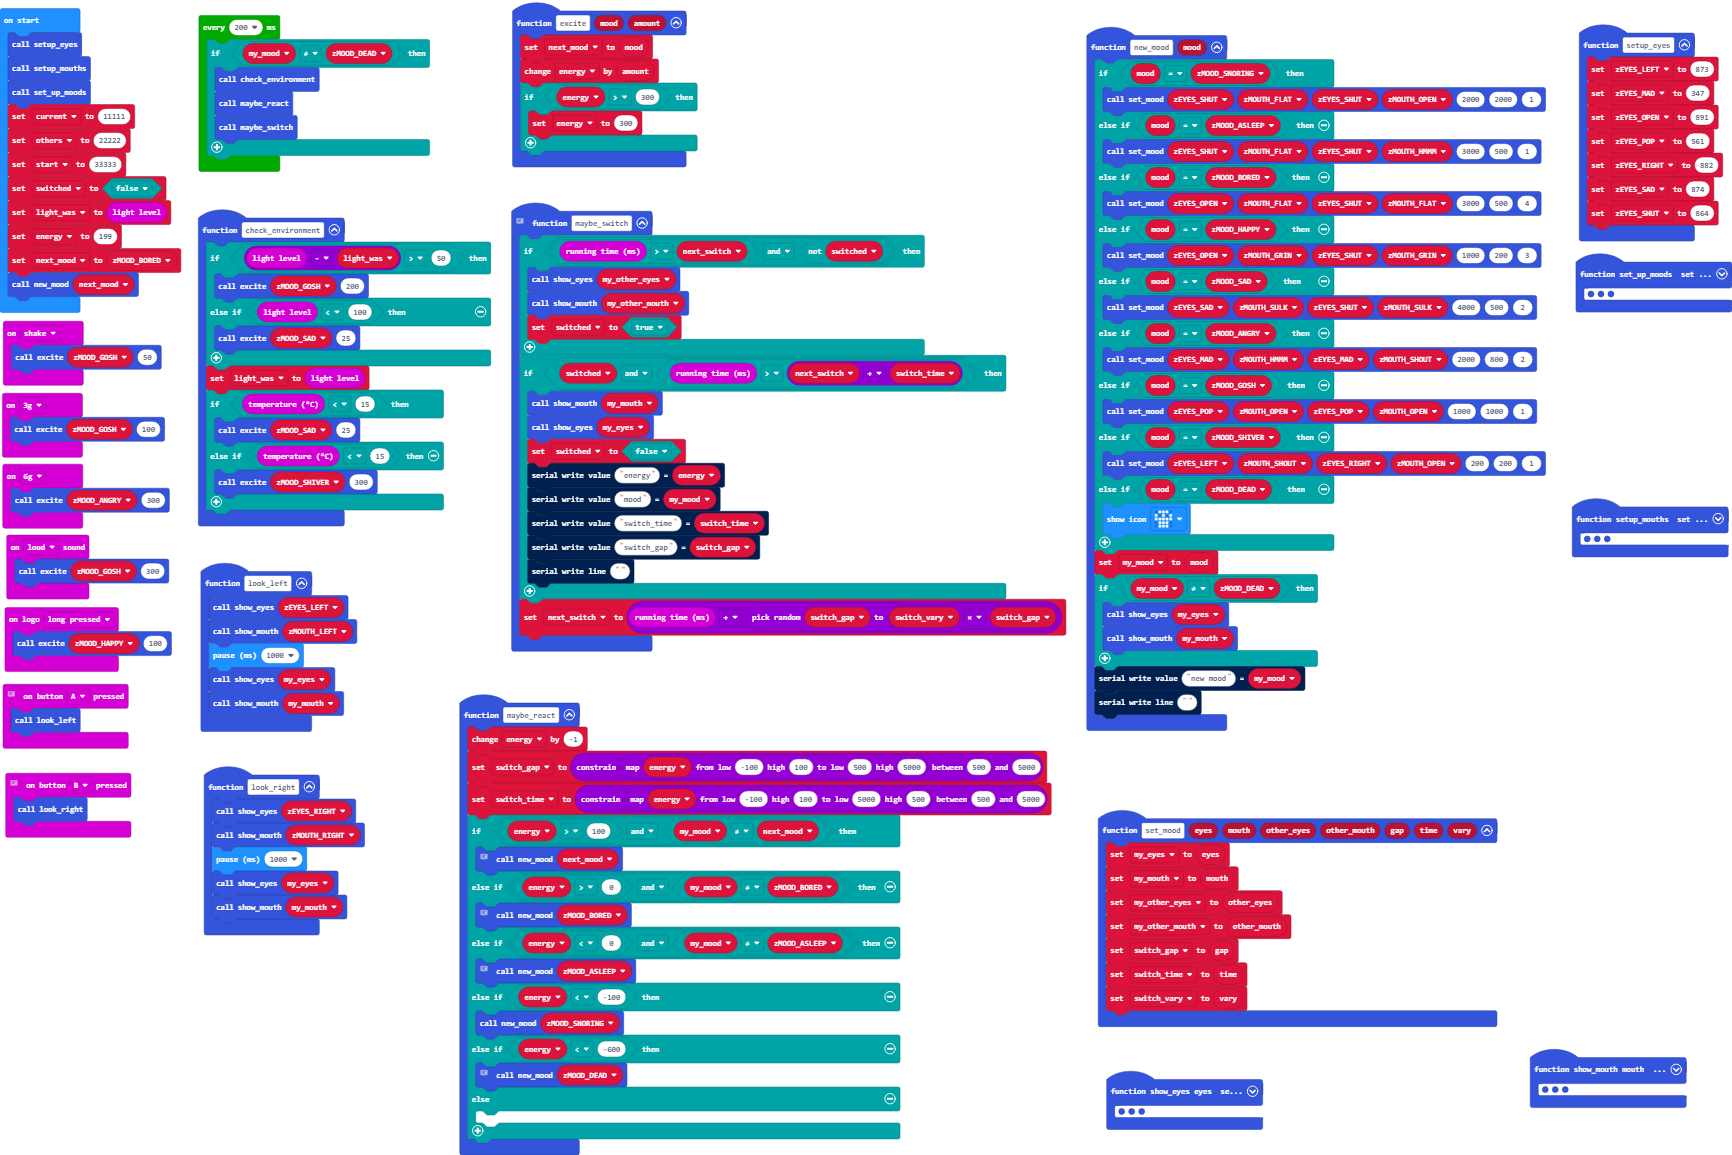
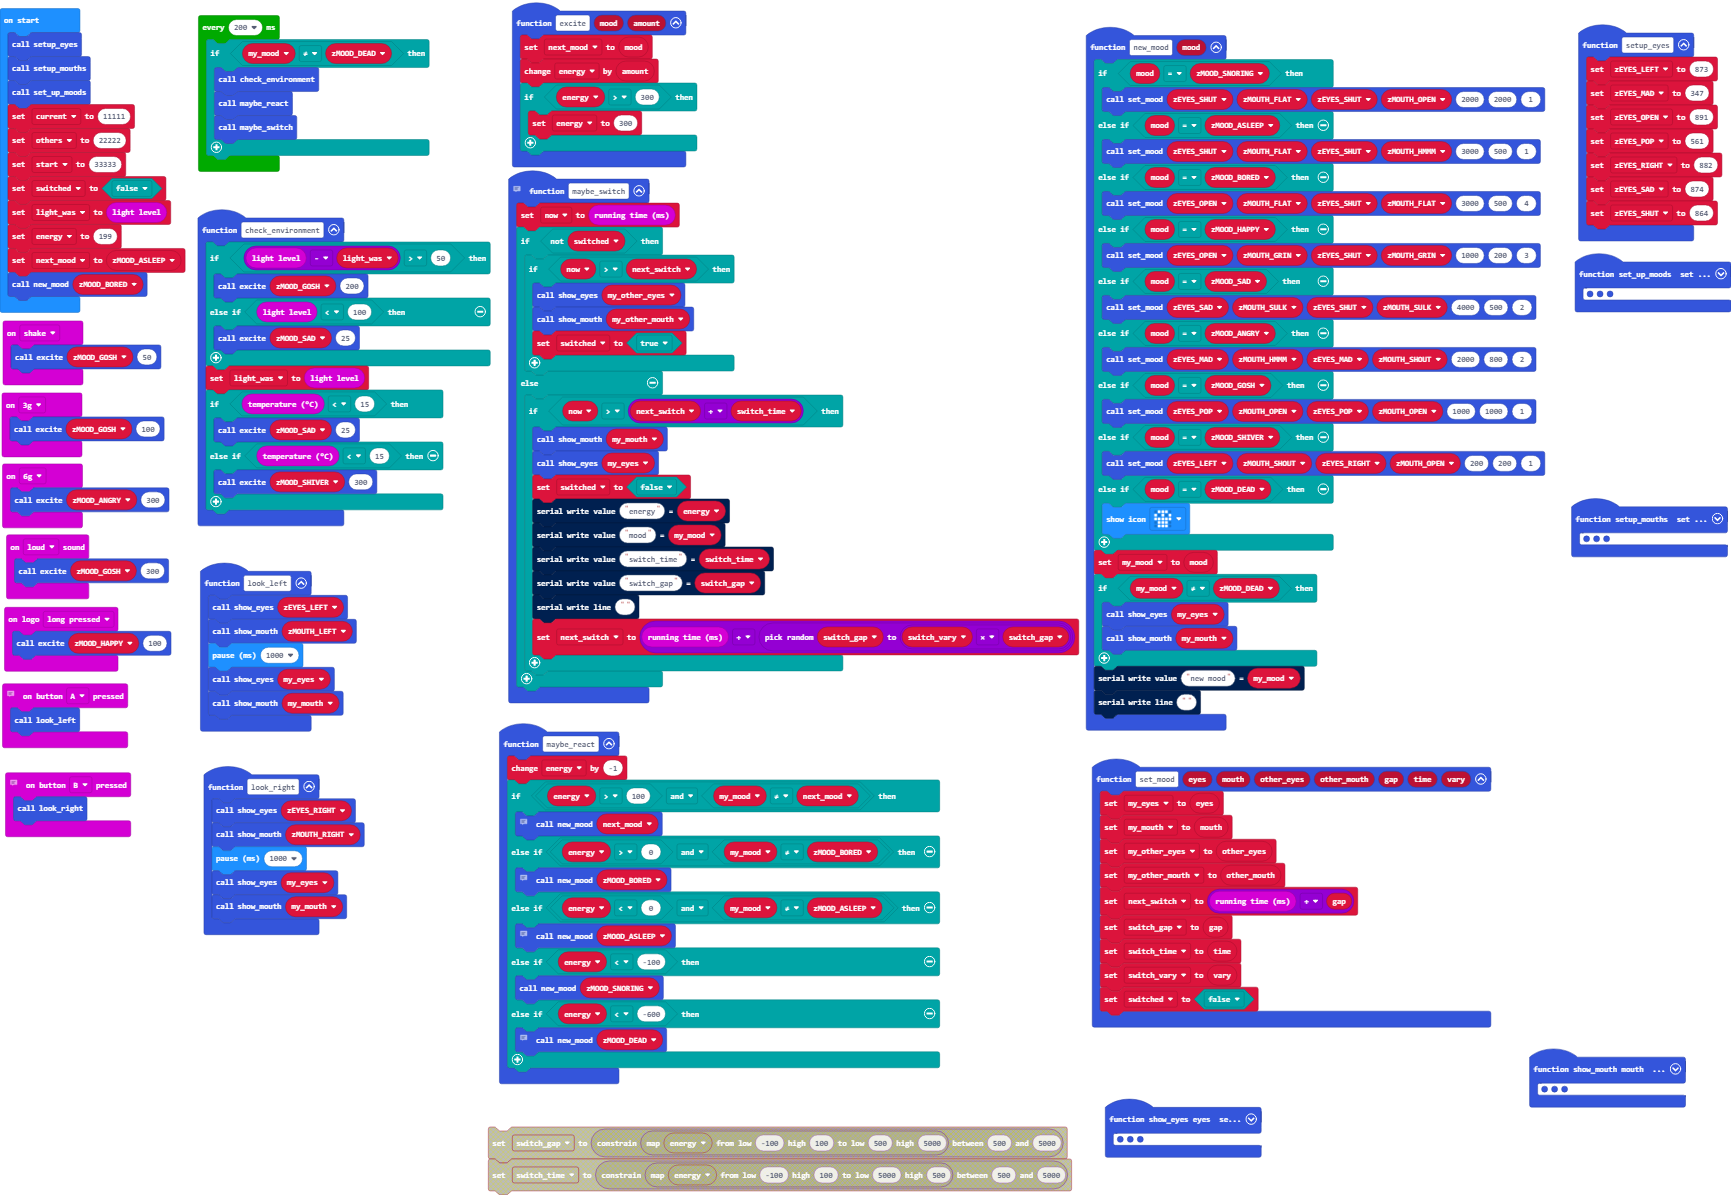
still struggling with flashing eyes!

diff --git a/main.ts b/main.ts
@@ -72,22 +72,26 @@ input.onGesture(Gesture.SixG, function () {
 // These are controlled by two time-periods: switch_gap sets how often, and switch_time says how long to show the alternate face.
 // So if it's time to switch, this function changes faces
 function maybe_switch () {
-    if (input.runningTime() > next_switch && !(switched)) {
-        show_eyes(my_other_eyes)
-        show_mouth(my_other_mouth)
-        switched = true
+    now = input.runningTime()
+    if (!(switched)) {
+        if (now > next_switch) {
+            show_eyes(my_other_eyes)
+            show_mouth(my_other_mouth)
+            switched = true
+        }
+    } else {
+        if (now > next_switch + switch_time) {
+            show_mouth(my_mouth)
+            show_eyes(my_eyes)
+            switched = false
+            serial.writeValue("energy", energy)
+            serial.writeValue("mood", my_mood)
+            serial.writeValue("switch_time", switch_time)
+            serial.writeValue("switch_gap", switch_gap)
+            serial.writeLine("")
+            next_switch = input.runningTime() + randint(switch_gap, switch_vary * switch_gap)
+        }
     }
-    if (switched && input.runningTime() > next_switch + switch_time) {
-        show_mouth(my_mouth)
-        show_eyes(my_eyes)
-        switched = false
-        serial.writeValue("energy", energy)
-        serial.writeValue("mood", my_mood)
-        serial.writeValue("switch_time", switch_time)
-        serial.writeValue("switch_gap", switch_gap)
-        serial.writeLine("")
-    }
-    next_switch = input.runningTime() + randint(switch_gap, switch_vary * switch_gap)
 }
 input.onSound(DetectedSound.Loud, function () {
     excite(zMOOD_GOSH, 300)
@@ -111,14 +115,14 @@ function set_mood (eyes: number, mouth: number, other_eyes: number, other_mouth:
     my_mouth = mouth
     my_other_eyes = other_eyes
     my_other_mouth = other_mouth
+    next_switch = input.runningTime() + gap
     switch_gap = gap
     switch_time = time
     switch_vary = vary
+    switched = false
 }
 function maybe_react () {
     energy += -1
-    switch_gap = Math.constrain(Math.map(energy, -100, 100, 500, 5000), 500, 5000)
-    switch_time = Math.constrain(Math.map(energy, -100, 100, 5000, 500), 500, 5000)
     if (energy > 100 && my_mood != next_mood) {
         // react to input
         new_mood(next_mood)
@@ -134,8 +138,6 @@ function maybe_react () {
         // die of neglect!
         // ---permanently!
         new_mood(zMOOD_DEAD)
-    } else {
-    	
     }
 }
 function setup_mouths () {
@@ -213,6 +215,7 @@ let switch_time = 0
 let my_other_mouth = 0
 let my_other_eyes = 0
 let next_switch = 0
+let now = 0
 let zEYES_SHUT = 0
 let zEYES_SAD = 0
 let zEYES_POP = 0
@@ -231,9 +234,9 @@ let zMOOD_GOSH = 0
 let zMOOD_ANGRY = 0
 let zMOOD_SAD = 0
 let zMOOD_HAPPY = 0
-let zMOOD_ASLEEP = 0
 let zMOOD_DEAD = 0
 let zMOOD_BORED = 0
+let zMOOD_ASLEEP = 0
 let next_mood = 0
 let energy = 0
 let light_was = 0
@@ -247,8 +250,8 @@ let start = 33333
 switched = false
 light_was = input.lightLevel()
 energy = 199
-next_mood = zMOOD_BORED
-new_mood(next_mood)
+next_mood = zMOOD_ASLEEP
+new_mood(zMOOD_BORED)
 loops.everyInterval(200, function () {
     if (my_mood != zMOOD_DEAD) {
         check_environment()
